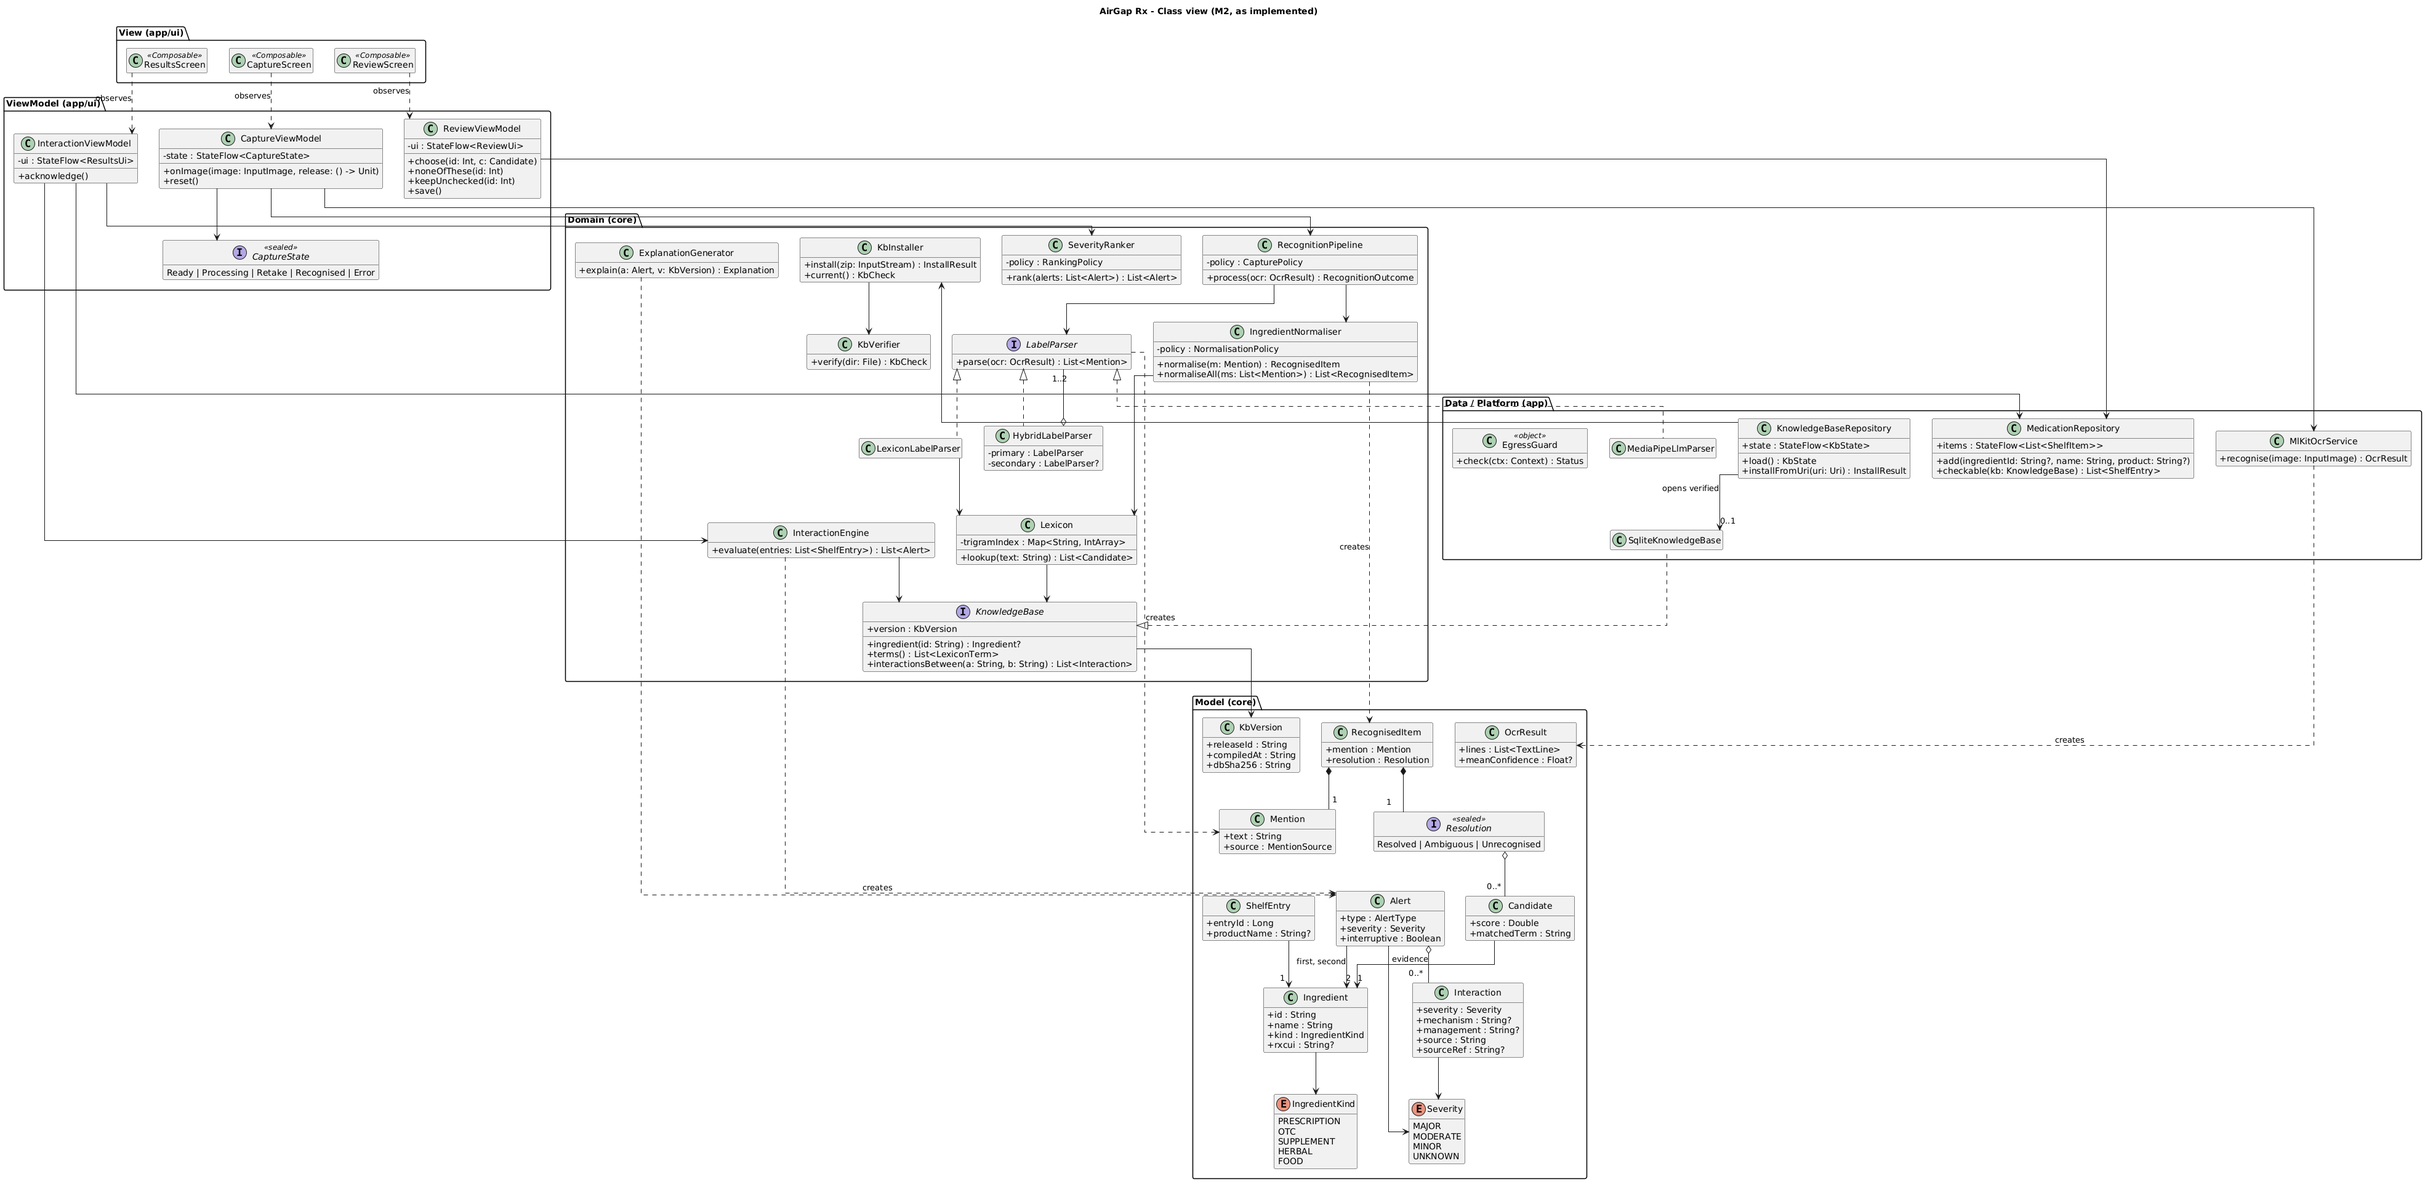
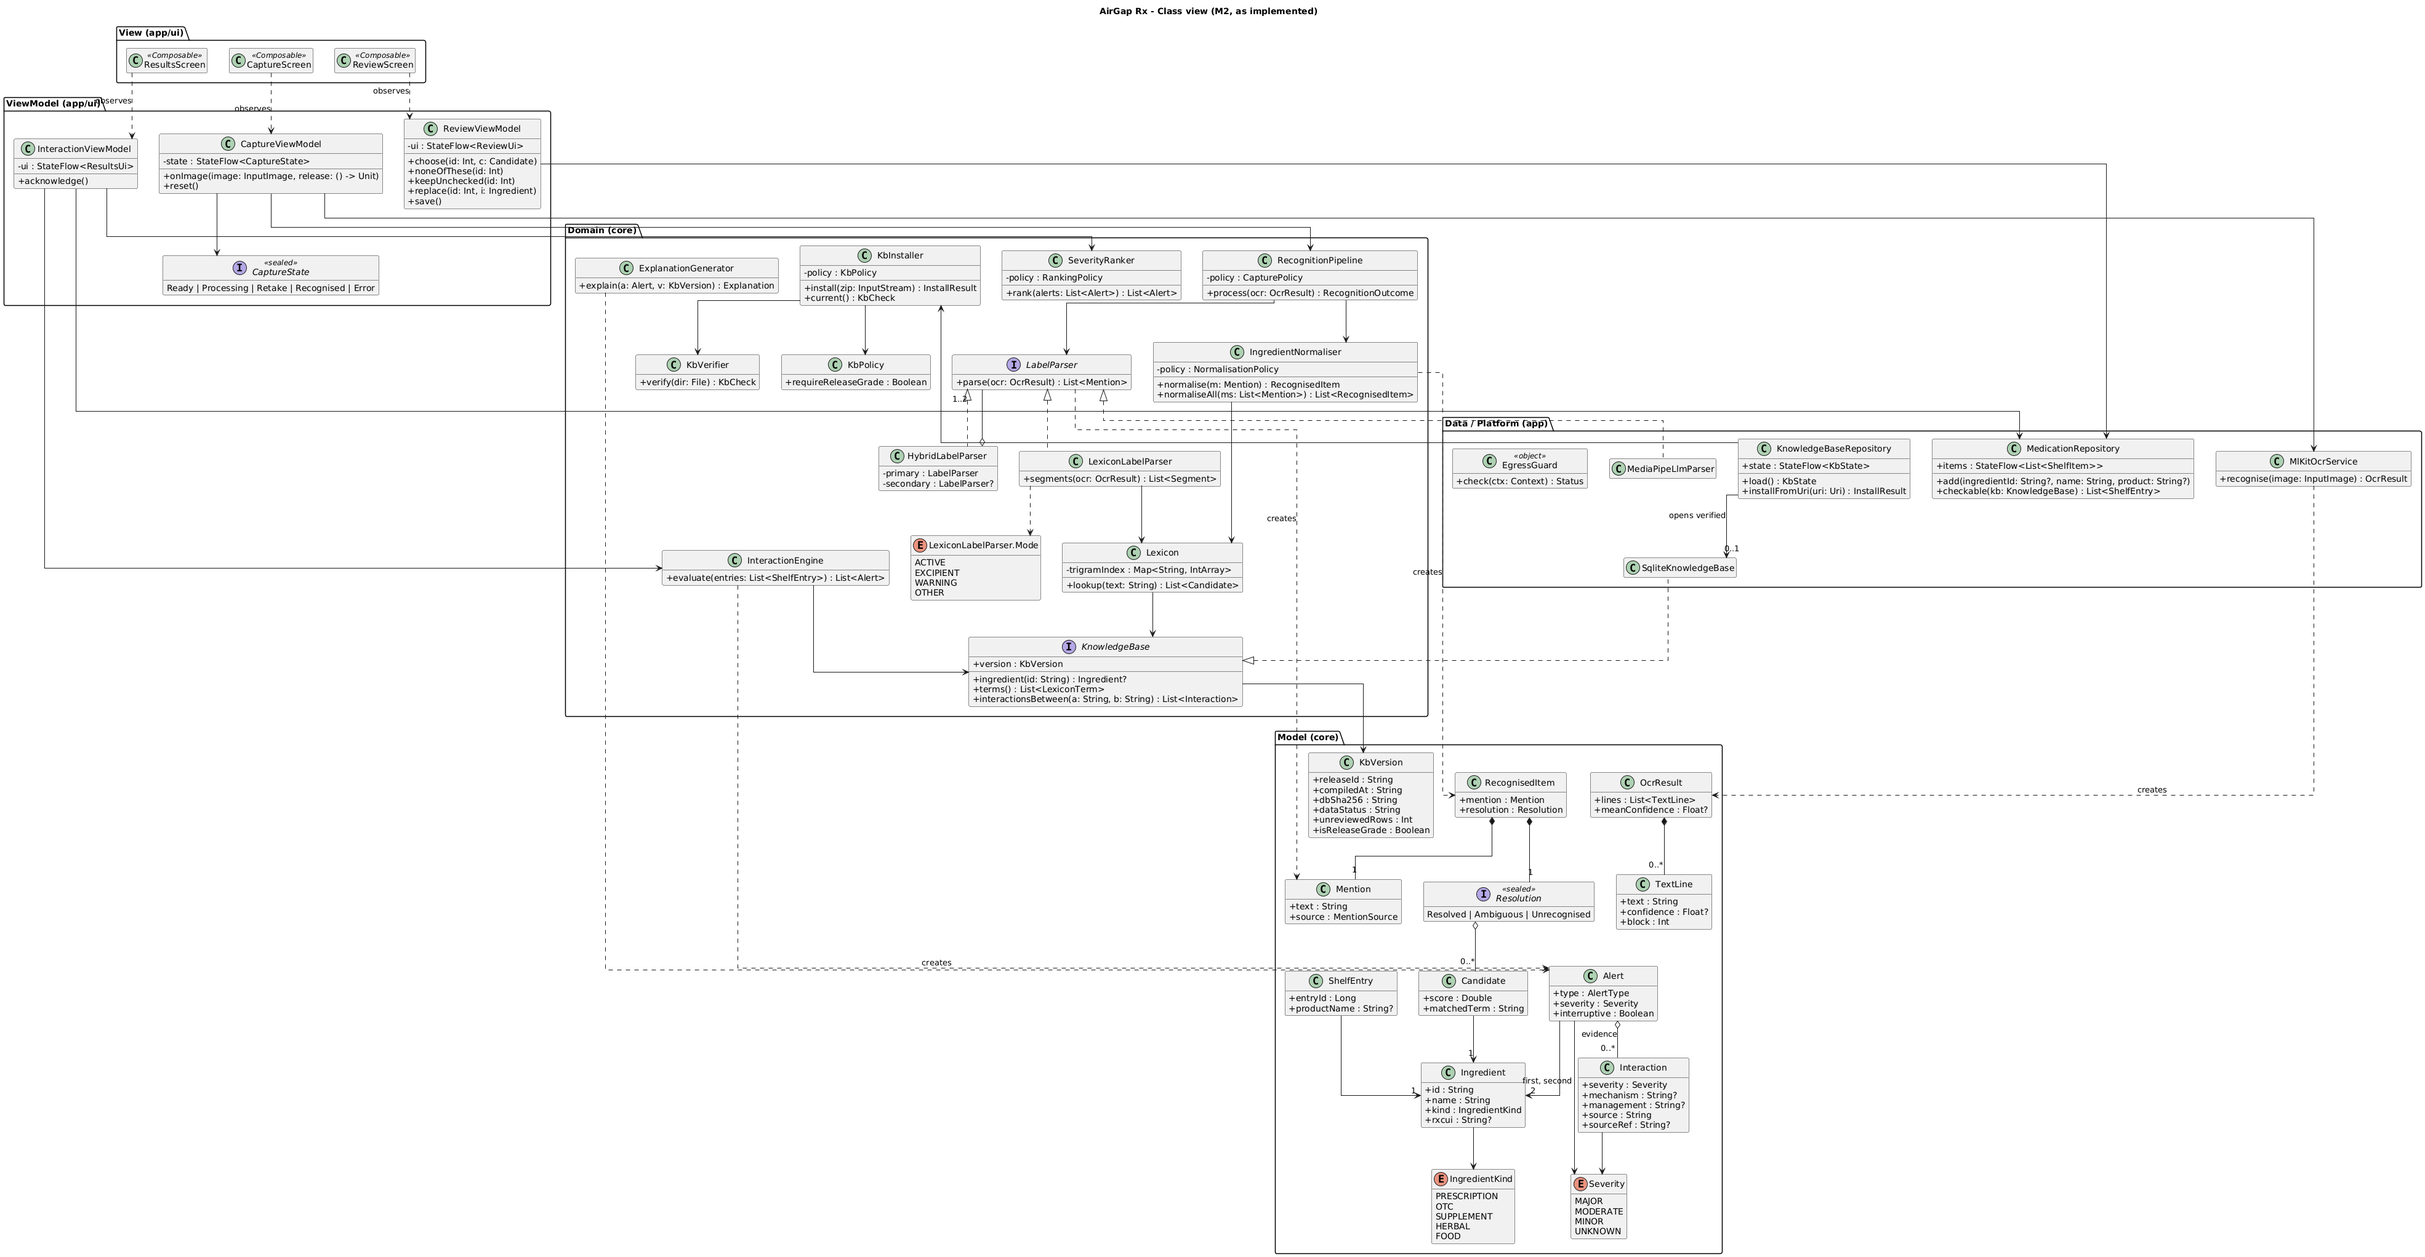
Correct overstated claims and record M1 design changes accurately
- ARCHITECTURE: M1 already required packet capture; add RxNorm, FTS5, R7
  and LLM rows with what still has to be measured; list defects found,
  fixes and the regression tests that failed before each fix.
- README: permission list is not the whole egress story; LLM marked not
  yet evaluated; build status stated honestly; release gate documented.
- Egress protocol: capture all device traffic (Play services IPC path).
- Class diagram updated for parser modes, KB policy and TextLine.

Changed region(s): [[0.2498, 0.2811, 0.9992, 0.9995], [0.0, 0.0, 0.5933, 0.2499], [0.0625, 0.1874, 0.1874, 0.2499]]

diff --git a/docs/ARCHITECTURE.md b/docs/ARCHITECTURE.md
@@ -41,12 +41,31 @@ the function they serve. No network node appears anywhere in the deployment.
 
 ## Design changes since Milestone 1 (for the reflection section)
 
-| M1 plan | As built | Why |
-|---|---|---|
-| NNAPI delegate for the parsing model | MediaPipe LLM Inference (GPU via OpenCL, CPU fallback), and the model is optional | NNAPI is deprecated from Android 15. MediaPipe LLM Inference is itself now in maintenance mode, with LiteRT-LM as its successor. |
-| Language model as the main parser | Deterministic parser first (ingredient section + lexicon); the language model only proposes extra names, and every proposal still goes through the normaliser | Safety: the model can't invent an ingredient. Testability: the deterministic path is covered by unit tests. |
-| SQLite FTS5 for ingredient search | In-memory trigram index (`Lexicon`) | The framework SQLite build doesn't guarantee FTS5. The vocabulary is small, and the index can be tested on the JVM. |
-| Single Android module | `:app` + pure-Kotlin `:core` | The compiler enforces the MVVM domain boundary, and the 29 domain tests run without a device. |
-| R1 checked by reading the manifest | Merged-manifest Gradle check + `aapt2` APK check + runtime EgressGuard + packet capture | ML Kit's dependencies add INTERNET through manifest merging, so the source manifest alone gives a false sense of safety. |
-| (not planned) | Duplicate-ingredient alert | The same active ingredient in two products (e.g. paracetamol) is a common overdose route, and it falls out of the shelf model at no extra cost. |
-| (not planned) | Excipient filtering in the parser | Excipients such as magnesium stearate or iron oxide would otherwise raise false magnesium or iron interactions. |
+Each change is listed with what M1 committed to, what was built, why, and what still has to be
+**measured** before the report can claim the change worked. "Not yet established" means the
+evidence does not exist yet; it must not be presented as done.
+
+| M1 commitment | As built | Why | Still to establish |
+|---|---|---|---|
+| A quantised small language model parses label text (core to the research question: capture + on-device inference + zero egress) | Deterministic section-aware parser + fuzzy lexicon; optional MediaPipe LLM that only *proposes* names, each still normalised against the KB | Safety (the model cannot introduce an ingredient that is not in the vocabulary or confirmed by the user); testability (deterministic path is unit-tested); risk (get the baseline working first) | Whether the LLM adds measurable value: run `OcrEvaluationTest` on the same held-out labels with and without a model and compare ingredient recall, extra items, latency and peak memory. If this is not done, report the LLM as an uncompleted part of the M1 design, not as evaluated |
+| NNAPI / GPU delegate for inference | MediaPipe LLM Inference (OpenCL GPU, CPU fallback) | NNAPI is deprecated from Android 15; MediaPipe LLM Inference is itself in maintenance mode with LiteRT-LM as successor | Whether it runs inside the R7 budget on the reference device |
+| RxNorm ingredient identifiers as canonical keys (R3) | Name-based slug keys (`st-johns-wort`); RxCUI attached optionally when RxNorm files are supplied | DDInter keys by its own IDs and names, the curated supplement table has no RxCUIs, and RxNorm does not cover many herbal products. Name-based keys plus a synonym table let three sources merge into one entity | Consequence for matching: merges depend on `synonyms.csv` (e.g. acetaminophen → paracetamol) and salt forms are folded into the parent ingredient. Report the number of DDInter names merged vs. left separate, and any duplicates found |
+| SQLite FTS5 for serverless ingredient search (R4) | In-memory trigram index (`Lexicon`) over all KB terms | Android's framework SQLite does not guarantee FTS5; the vocabulary is small enough to hold in memory; fuzzy edit-distance matching tolerates OCR errors in a way prefix/token FTS does not | Search time and memory with the full DDInter vocabulary on the reference device (criterion 8 log shows normalise_ms and peak RSS) |
+| Five-second result on a 4 GB device (R7) | Shutter→review and check latency + VmHWM logged for every real scan | Instrumentation exists | Actual measurements: 30 camera runs on a named device, median and max, peak memory |
+| R1 verified by packet capture over a full session **and** manifest inspection (M1 criterion 1) | Same, plus: merged-manifest Gradle check, `aapt2` APK check, runtime EgressGuard | Building revealed that ML Kit's dependencies add INTERNET through manifest merging, so inspecting the *source* manifest alone would have passed a non-compliant build | Packet capture result. Capture **all device traffic**, not just the app's UID: ML Kit can talk to Google Play services over Binder (a "ClientTelemetry" connection has been reported for bundled ML Kit), and Play services has its own network access |
+| Single Android module | `:app` + pure-Kotlin `:core` | The compiler enforces the MVVM domain boundary and the domain tests run without a device | — |
+| (not planned) | Duplicate-ingredient alert | The same active ingredient in two products (e.g. paracetamol) is a common overdose route, and it falls out of the shelf model | Covered by unit test; show on device |
+| (not planned) | Section-aware parsing: excipient and warning sections skipped, sections reset at OCR block boundaries | Excipients (magnesium stearate, iron oxide) raised false mineral interactions; warnings ("do not take with warfarin") added medicines that are not in the product | Effect on ingredient recall on the held-out labels |
+
+### Defects found and fixed during development (reflection evidence)
+
+| Defect | Found by | Fix | Regression test |
+|---|---|---|---|
+| "Levothyroxine sodium 100 microgram" not recognised: spelled-out units were not stripped | Criterion-4 harness run on seed cases | Added spelled-out units to `Text.stripDoses` | `TextTest.stripDosesRemovesAmountsButKeepsNumericNames` |
+| An ambiguous item vanished when one of its options matched an already-resolved ingredient ("Vitamin E" next to "Vitamin K") | External code review | `normaliseAll` only collapses identical text or identical resolved ingredients | `IngredientNormaliserTest.ambiguousItemIsKeptEvenIfAnOptionIsAlreadyResolved` |
+| Parsing stopped at the first excipient header, so actives read later were lost | External code review | Section modes that switch at headers and reset at OCR block boundaries | `LabelParserTest.activesAfterExcipientSectionInSameBlockAreKept`, `newOcrBlockEndsAnExcipientSection` |
+| Warning text added other medicines to the product | Found while fixing the above | WARNING mode | `LabelParserTest.warningTextDoesNotAddOtherMedicines` |
+| A correctly signed *development* KB could be packaged in a release APK | External code review | Review status in the signed manifest; release policy at runtime; Gradle release gate | `KbPackageTest.releasePolicyRejectsSignedDevelopmentData` |
+
+Each regression test above was confirmed to fail on the code before its fix. These are individual
+defects; fixing them is not evidence of overall accuracy, which comes only from the M1 evaluation.

diff --git a/README.md b/README.md
@@ -39,21 +39,24 @@ are often also the people taking several prescription medicines (Kantor et al., 
 checkers send your full medicine list to a server, and they cover herbal and supplement ingredients unevenly.
 
 AirGap Rx moves the whole check onto the phone. The app **declares no network permission**, so Android
-itself stops it from opening a connection. You don't have to trust a privacy policy; you can check the
-APK yourself.
+does not let the app open a network connection itself, and you can confirm the permission list in the APK.
+That is a strong property but not the whole story: a library can still pass data to another app over
+Android IPC (for example, ML Kit to Google Play services), so the evaluation captures **all device traffic**
+during a full session rather than relying on the permission list alone. See
+[`docs/evaluation/egress_protocol.md`](docs/evaluation/egress_protocol.md).
 
 ## Features
 
 | | Feature | Requirement (M1) |
 |---|---|---|
-| 📷 | **Label capture** with on-device OCR (CameraX + bundled ML Kit). Poor captures ask for a retake and nothing is guessed. | R2 |
-| 🔎 | **Ingredient recognition** using an ingredient-section parser, fuzzy lexicon spotting and an optional on-device language model | R2, R3 |
-| ❓ | **Review and disambiguation**: near-misses ("warfarn") and unknown actives ("ashwagandha") always go to the user to decide | R3 |
+| 📷 | **Label capture** with on-device OCR (CameraX + bundled ML Kit). Low-confidence captures ask for a retake and add nothing. | R2 |
+| 🔎 | **Ingredient recognition**: section-aware parser (skips excipient and warning sections), fuzzy lexicon spotting, and an *optional, not yet evaluated* on-device language model that can only propose names | R2, R3 |
+| ❓ | **Review before saving**: unclear matches ("warfarn") and unknown actives ("ashwagandha") must be decided by the user; close fuzzy matches are accepted provisionally and marked "Matched approximately" with a Change action | R3 |
 | 💊 | **Encrypted medication shelf**: SQLCipher, with the key wrapped by Android Keystore | R8 |
 | ⚠ | **Pairwise interaction check** covering prescription medicines, OTC products, supplements, herbs and foods | R4, R6 |
 | 🚦 | **Severity ranking**: Major interactions interrupt and must be acknowledged. Minor ones are collapsed. | R5 |
 | 🔁 | **Duplicate ingredient warning** when the same active ingredient appears in two products (e.g. two paracetamol products) | R5 |
-| 📚 | **Signed, versioned knowledge base**: shows release, compile date and SHA-256, and accepts offline updates from a file | R4 |
+| 📚 | **Signed, versioned knowledge base**: shows release, compile date, SHA-256 and review status; accepts offline updates from a file; release builds refuse unreviewed or development data | R4 |
 | 🛡 | **EgressGuard**: the app refuses to run if a build ever declares a network permission | R1 |
 
 ## How it works
@@ -91,7 +94,12 @@ deployment views.
 
 ### Option A: install the APK
 
-1. Download `app-release.apk` from the latest [GitHub release](../../releases) or from the **Actions** build artifacts.
+> **Status:** the Android module has not yet been built successfully; the first CI run is pending. Until
+> then use Option B. Debug APKs contain the **development knowledge base** (labelled in the app) and are for
+> software testing only.
+
+1. Download `app-debug.apk` from the latest **Actions** run (artifact `airgaprx-debug-apk`). Release APKs are only
+   produced for `v*` tags, and only when the bundled knowledge base passed review.
 2. On the phone, allow installs from your browser or file manager, then open the APK.
 3. Open **AirGap Rx**. When asked, allow camera access. That is the only permission the app requests.
 
@@ -136,13 +144,16 @@ never downloads anything itself.
 
 | Command | What it checks |
 |---|---|
-| `./gradlew :core:test` | 29 JVM unit tests: text normalisation, fuzzy matching, parser (incl. excipient filtering), normaliser escalation, ranking, duplicate detection, KB signature, checksum, downgrade and tamper rejection |
+| `./gradlew :core:test` | 36 JVM unit tests: text normalisation, fuzzy matching, parser (incl. excipient filtering), normaliser escalation, ranking, duplicate detection, section-aware parsing, KB signature, checksum, downgrade, tamper and review-status rejection |
 | `./gradlew :app:verifyNoNetworkPermissionRelease` | Fails if any network permission survives manifest merging (R1) |
 | `scripts/check_apk_permissions.sh <apk>` | Lists the APK's permissions with `aapt2` and fails on any network permission (R1) |
 | `python kb/build_kb.py && ./gradlew :core:evaluate` | Criteria 4 and 5: normalisation accuracy and detection recall against the compiled KB |
-| `./gradlew :app:connectedDebugAndroidTest` | Criteria 2, 3 and 8 on a device: OCR character accuracy, retake handling, latency and memory |
+| `./gradlew :app:connectedDebugAndroidTest` | Criteria 2 and 3 on a device: character accuracy, per-label ingredient recall (with/without LLM), retake handling |
+| scan 30 labels in the app, then `adb pull …/files/eval/timings.csv` | Criterion 8: shutter-to-review and check latency, peak memory (VmHWM) |
+| `./gradlew :app:assembleRelease` | Fails unless the bundled KB was built with `build_kb.py --release` |
 
-GitHub Actions runs the unit tests, both manifest checks, the APK build and the `aapt2` check on every push.
+GitHub Actions runs the unit tests, both manifest checks, the debug APK build and the `aapt2` check on every
+push, and the release gate on `v*` tags.
 The full evaluation plan is in [`docs/evaluation/`](docs/evaluation/README.md).
 
 ## Knowledge base
@@ -184,7 +195,9 @@ The repository includes a **development KB**. Its drug–drug pairs come from a 
 
 - Android only (a deliberate trade-off, see M1 Section 3.4).
 - Coverage is limited to the compiled sources. The most complete commercial compendia can't be redistributed, so they can't be used offline.
-- The curated supplement table is a draft until every row is reviewed against its source (`reviewed=yes`).
+- The curated supplement table is a draft until every row is reviewed against its source (`reviewed=yes`); rows
+  without a supporting source are removed, not just re-flagged.
+- The optional language-model parser has not been evaluated yet.
 - No dose-level checking, pharmacogenomics or clinician workflows (out of scope, M1 Section 1.2).
 - Interaction severity is shown as the source records it. It has not been clinically validated for this app.
 

diff --git a/docs/evaluation/egress_protocol.md b/docs/evaluation/egress_protocol.md
@@ -10,11 +10,22 @@ Static checks:
 
 Dynamic check (traffic observed, not inferred):
 
-1. On the reference phone, install PCAPdroid (it captures traffic without root) and filter it to `com.airgaprx.app`.
-   On an emulator you can run `adb shell tcpdump -i any -w /sdcard/airgaprx.pcap` instead.
-2. Start the capture. Do a full session: scan 3 labels, resolve an ambiguous item, add an item by name,
-   check interactions, open an alert, install a KB update, import a model.
-3. Stop the capture. **Pass:** zero packets attributed to the app's UID. Screenshot the result.
+Per-app capture is not enough. The app's own UID cannot open sockets, but a library can hand data to
+**another process** over Binder IPC, and that process has its own network access. Bundled ML Kit has been
+reported to open a "ClientTelemetry" connection to Google Play services (googlesamples/mlkit issue #1076).
+So capture **all** device traffic and compare against a baseline.
+
+1. Use PCAPdroid on the reference phone with **no app filter** (all apps), or an emulator with
+   `adb shell tcpdump -i any -w /sdcard/airgaprx.pcap`.
+2. Baseline: with the app closed, capture 5 minutes of idle traffic.
+3. Session: start a new capture and do a full session — scan 3 labels, resolve an ambiguous item, add an
+   item by name, check interactions, open an alert, install a KB update, import a model. Record start/end times.
+4. **Pass:** (a) zero packets from the app's UID; and (b) no new connections during the session window
+   from Google Play services or other system apps to Google logging/telemetry hosts
+   (e.g. `firebaselogging`, `play.googleapis.com/log`, `clearcut`) that are absent from the baseline.
+5. Control (optional but strong): repeat on an emulator image **without** Google Play services. If (b)
+   differs between the two, report it as a finding about third-party SDK telemetry, not a pass.
+6. Screenshot both captures and keep the `.pcap` files.
 
 ## Criterion 9: profile encryption
 
